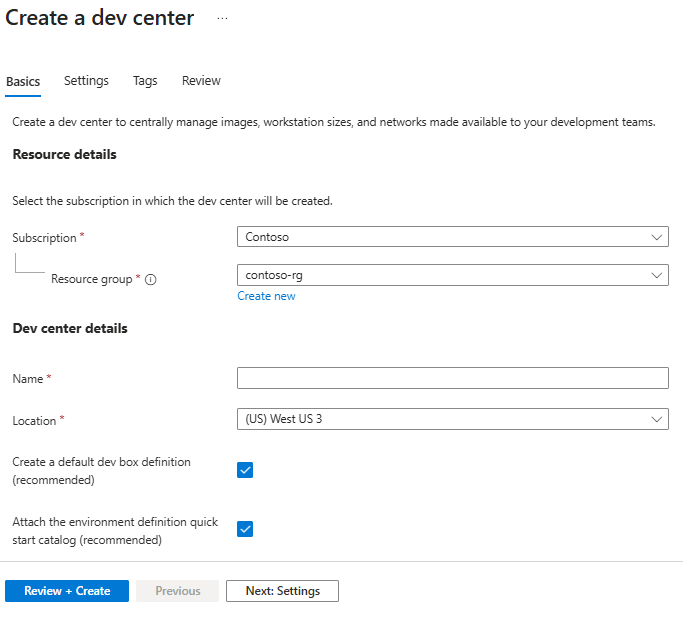
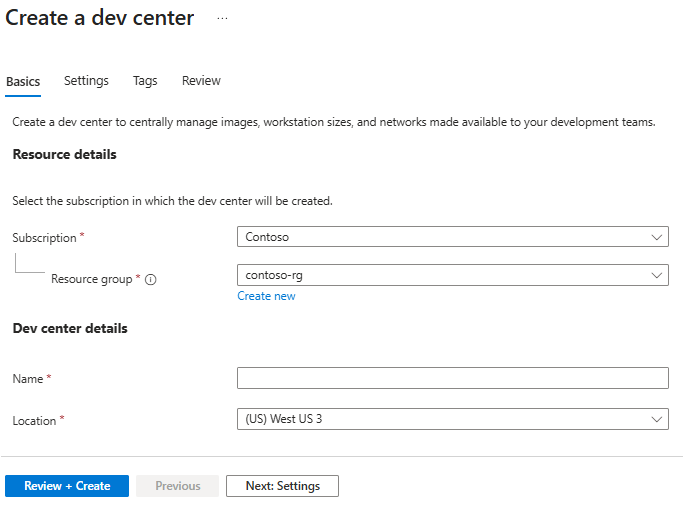
Edited screenshot

diff --git a/articles/dev-box/includes/create-dev-center-steps.md b/articles/dev-box/includes/create-dev-center-steps.md
@@ -24,8 +24,7 @@ ms.service: dev-box
    | **Resource Group** | Select an existing resource group, or select **Create new** and then enter a name for the new resource group. |
    | **Name** | Enter a name for your dev center. |
    | **Location** | Select the location or region where you want the dev center to be created.</br> For a list of the currently supported Azure locations with capacity, see [Frequently asked questions about Microsoft Dev Box](https://aka.ms/devbox_acom). |
-   | **Create a default dev box definition (recommended)** | Ensure the checkbox is selected. Dev Box creates a default dev box definition so you can create dev boxes immediately. |
-   | **Attach the environment definition quick start catalog (recommended)** | Ensure the checkbox is selected. Dev Box attaches a quick start catalog that contains predefined environment configurations for your dev boxes. This catalog isn't used in the initial dev box creation but can be helpful later. |
+
 
    :::image type="content" source="../media/create-dev-center-steps/create-dev-center-basics.png" alt-text="Screenshot that shows the Basics tab on the pane for creating a dev center." lightbox="../media/create-dev-center-steps/create-dev-center-basics.png":::
 

diff --git a/articles/dev-box/quickstart-configure-dev-box-service.md b/articles/dev-box/quickstart-configure-dev-box-service.md
@@ -1,6 +1,6 @@
 ---
 title: 'Quickstart: Configure Microsoft Dev Box'
-description: Quickly set up Microsoft Dev Box resources for developers to self-service a cloud-based dev box. Create a dev center, dev box definition, and dev box pool.
+description: Quickly set up Microsoft Dev Box resources for developers to self-service a cloud-based dev box. Create a dev center, dev box project, and dev box pool.
 services: dev-box
 ms.service: dev-box
 ms.topic: quickstart
